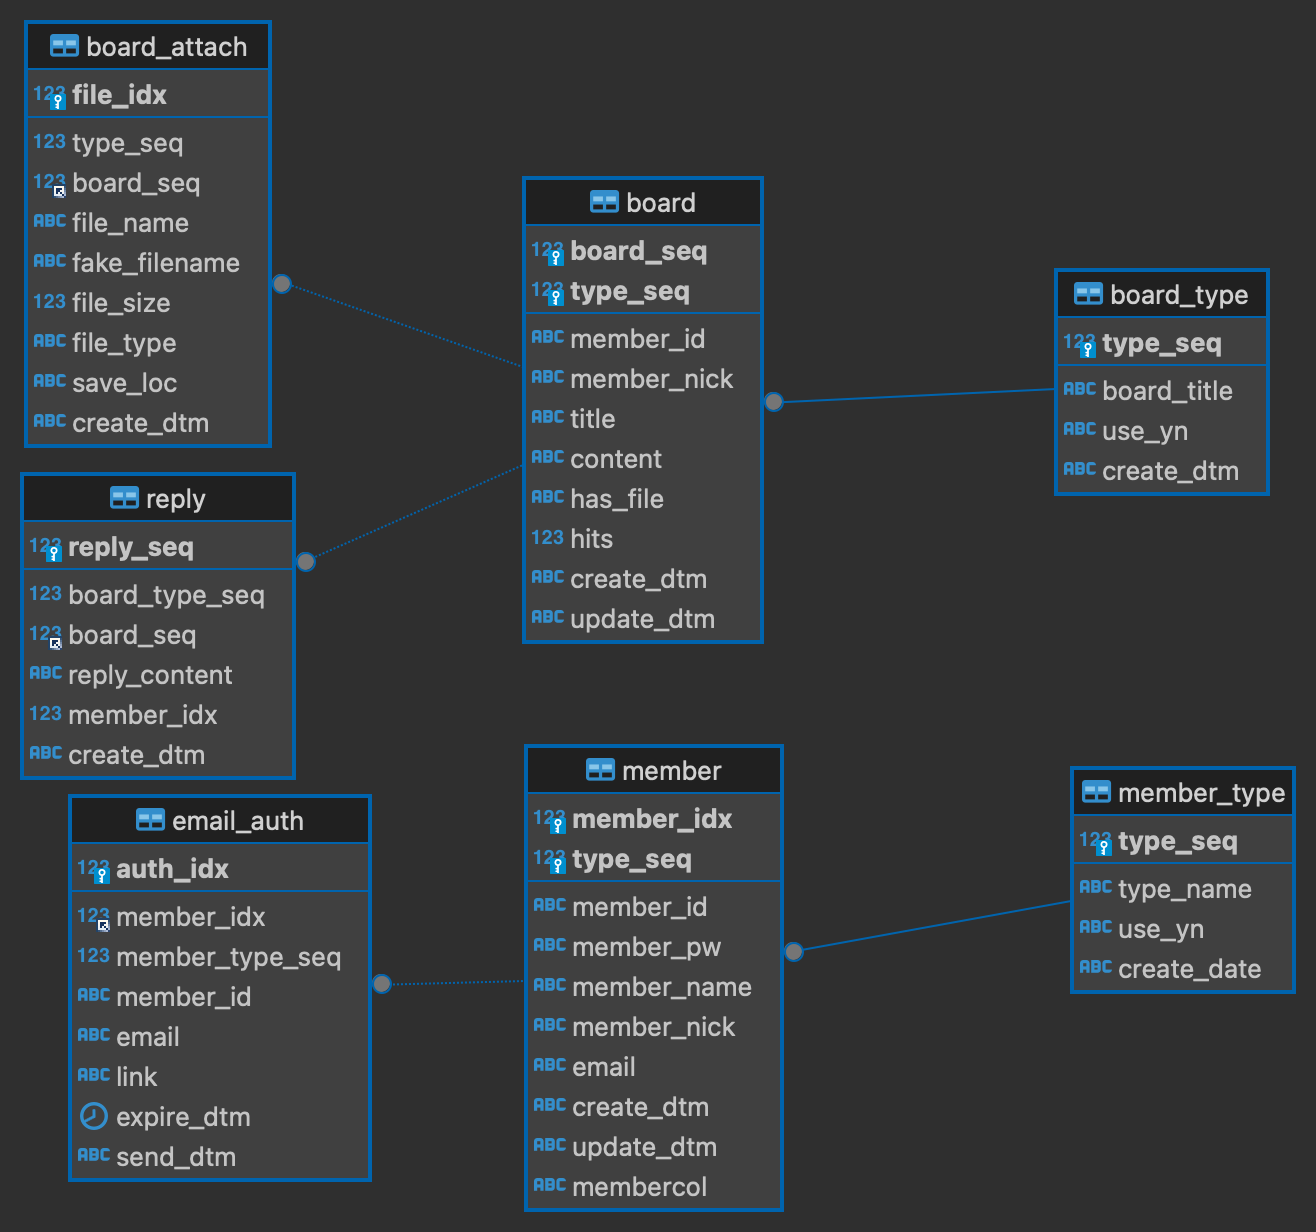
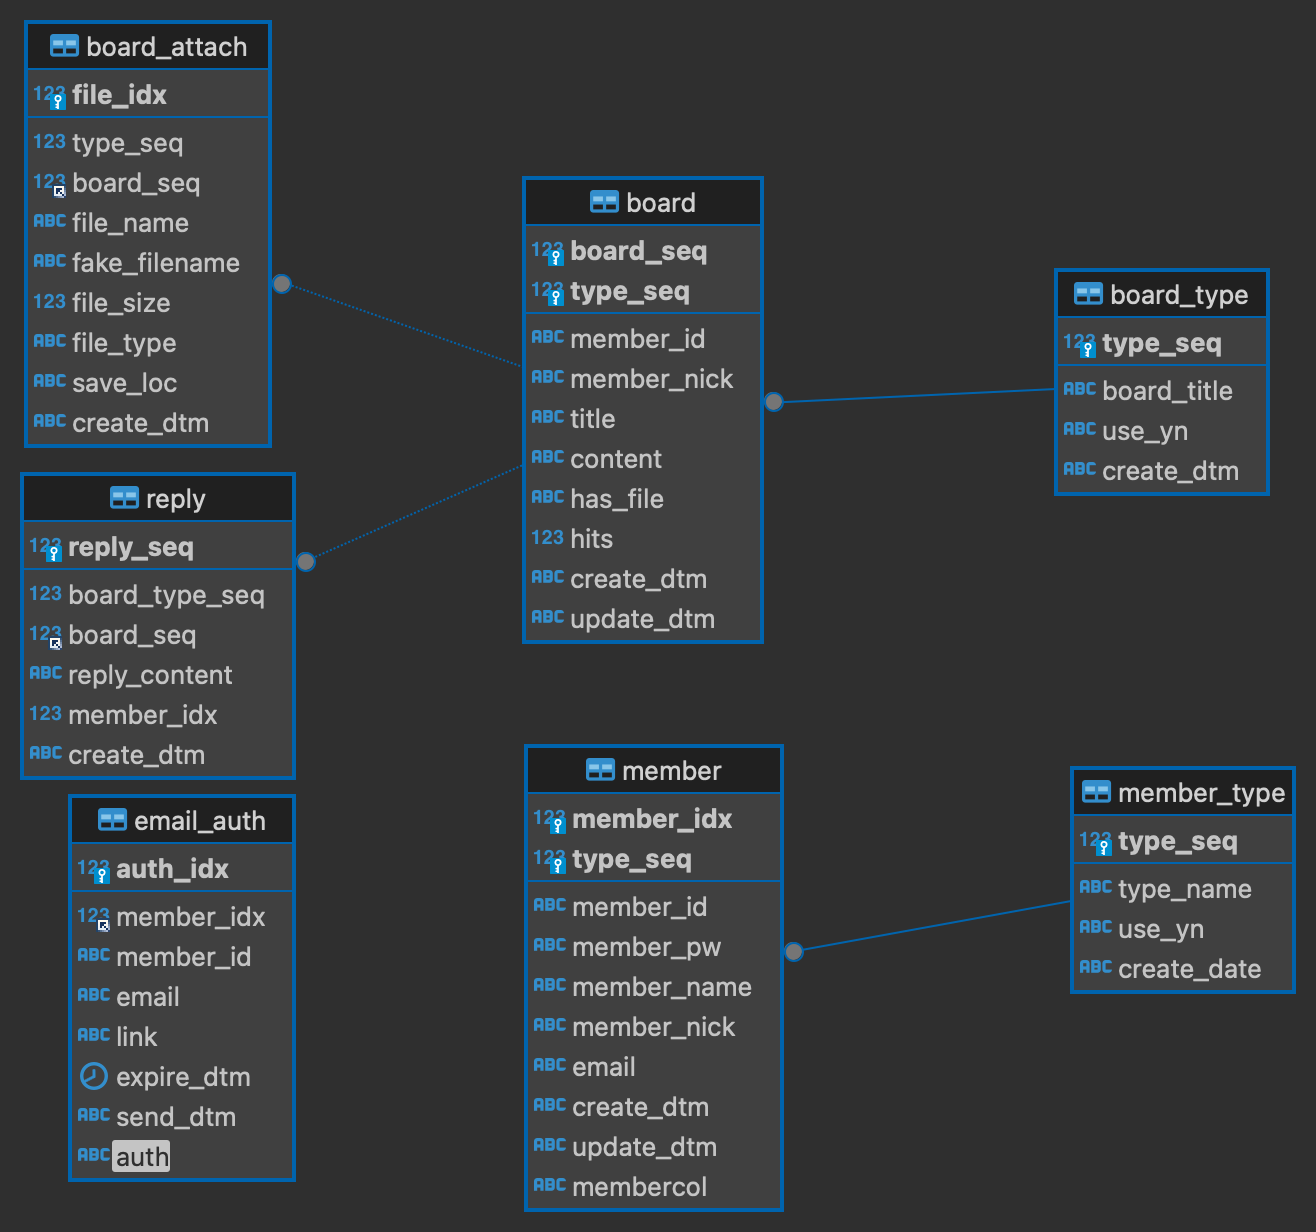
ERD이미지 수정, EmailAut테이블 수정 반영.

diff --git a/src/main/java/com/lhs/service/impl/MemberServiceImpl.java b/src/main/java/com/lhs/service/impl/MemberServiceImpl.java
@@ -10,9 +10,12 @@ import javax.servlet.http.HttpSession;
 
 import org.springframework.beans.factory.annotation.Autowired;
 import org.springframework.stereotype.Service;
+import org.springframework.transaction.annotation.Transactional;
 
+import com.lhs.dao.EmailAuthDao;
 import com.lhs.dao.MemberDao;
 import com.lhs.dto.MemberDto;
+import com.lhs.entity.EmailAuth;
 import com.lhs.exception.PasswordMissMatchException;
 import com.lhs.exception.UserNotFoundException;
 import com.lhs.service.MemberService;
@@ -30,6 +33,9 @@ public class MemberServiceImpl implements MemberService {
 	
 	@Autowired
 	AES256Util encoder;
+	
+	@Autowired
+	EmailAuthDao eAuth;
 	
 	
 	
@@ -136,10 +142,19 @@ public class MemberServiceImpl implements MemberService {
 		return null;
 	}
 
+	@Transactional
 	@Override
 	public String getVNum(String email, HttpSession session) {
 		//이메일 인증 번호 나중에 메서드로 바꾸기 !!!!
 		String VNum =RandomNum.randum();
+		EmailAuth emailAuth = new EmailAuth();
+		emailAuth.setAuth("N");
+		emailAuth.setEmail(email);
+		emailAuth.setLink("Null");
+		emailAuth.setMemberId((String)session.getAttribute("memberId"));
+		emailAuth.setMemberIdx((Integer)session.getAttribute("memberIdx"));
+		
+
 		session.setAttribute("VNum", VNum);
 		
 		com.lhs.dto.EmailDto emailDto = new com.lhs.dto.EmailDto();
@@ -147,8 +162,14 @@ public class MemberServiceImpl implements MemberService {
 		emailDto.setReceiver(email);
 		emailDto.setSubject("이메일 인증번호");
 		emailDto.setText("인증번호 입니다."+ VNum);
+		eAuth.insertEAuth(emailAuth);
+
 		try {
 			emailUtil.sendHtmlMail(emailDto);
+			session.setAttribute("authIdx", emailAuth.getAuthIdx());
+			System.out.println("authIdx :");
+			System.out.println("authIdx :");
+			System.out.println(session.getAttribute("authIdx"));
 		}catch(Exception e) {
 			e.printStackTrace();
 		}
@@ -161,12 +182,13 @@ public class MemberServiceImpl implements MemberService {
 		System.out.println("Service checkVNum()");
 		System.out.println("params.get(\"VNum\")      "+params.get("VNum"));
 		System.out.println("session.getAttribute(\"VNum\")      "+session.getAttribute("VNum"));
-		
+		params.put("authIdx", session.getAttribute("authIdx") + "");
 		
 		boolean result = params.get("VNum").equals( session.getAttribute("VNum"));
 		if(result) {
 			System.out.println("입력값 변경 !!");
 			session.setAttribute("typeSeq", "5");
+			eAuth.updateElAuth(params);
 		 mDao.updatetype((String)session.getAttribute("memberId"));
 			System.out.println("입력값 변경 !!");
 

diff --git a/src/main/java/com/lhs/rest/controller/MemberRestController.java b/src/main/java/com/lhs/rest/controller/MemberRestController.java
@@ -54,21 +54,21 @@ public class MemberRestController {
 	@PostMapping("/member")
 	@ResponseBody
 	public ResponseEntity<?> join(
-//			String memberId, 
-//			String memberPw,
-//			String againPw,
-//			String memberName,
-//			String memberNick,
-//			String email
-			MemberDto memberDto
+			String memberId, 
+			String memberPw,
+			String againPw,
+			String memberName,
+			String memberNick,
+			String email
+			//MemberDto memberDto
 			){
-//		MemberDto memberDto =  new MemberDto();
-//		memberDto.setMemberId(memberId);
-//		memberDto.setMemberPw(memberPw);
-//		memberDto.setAgainPw(againPw);
-//		memberDto.setMemberName(memberName);
-//		memberDto.setMemberNick(memberNick);
-//		memberDto.setEmail(email);
+		MemberDto memberDto =  new MemberDto();
+		memberDto.setMemberId(memberId);
+		memberDto.setMemberPw(memberPw);
+		memberDto.setAgainPw(againPw);
+		memberDto.setMemberName(memberName);
+		memberDto.setMemberNick(memberNick);
+		memberDto.setEmail(email);
 		
 		System.out.println("\"/member/login.do\")의 시작.");
 		System.out.println("MemberController의 join메서드에 전달받은 파라미터 출력");
@@ -92,20 +92,21 @@ public class MemberRestController {
 	
 	
 	
-	// 입력 받은 이메일 검증하고 검증결과에 따라 Member Type을 바꾸는 메서드 
+	// 입력 받은 이메일 검증하고 검증결과에 따라 Member Type을 바꾸는 메서드
+	// 
 		@PostMapping("/member/VNum")
 		@ResponseBody
 		public ResponseEntity<?> checkVNum(
-				HashMap params,
-//				String memberId,
-//				String email,
-//				String VNum,
+				//HashMap params,
+				String memberId,
+				String email,
+				String VNum,
 				HttpSession session){
 			
-//			HashMap params = new HashMap<String,String>();
-//			params.put("memberId", memberId);
-//			params.put("eamil", email);
-//			params.put("VNum", VNum);
+			HashMap<String,String> params = new HashMap<String,String>();
+			params.put("memberId", memberId);
+			params.put("eamil", email);
+			params.put("VNum", VNum);
 			
 			
 			System.out.println(params);

diff --git a/src/main/java/com/lhs/entity/EmailAuth.java b/src/main/java/com/lhs/entity/EmailAuth.java
@@ -18,12 +18,16 @@ import lombok.ToString;
 @AllArgsConstructor
 @Alias("EmailAuth")
 public class EmailAuth {
-	private int idx;
+	private int authIdx;
 	private int memberIdx;
-	private String memberTypeSeq;
 	private String memberId;
 	private String email;
 	private String link;
+	private String expireDtm;
 	private String sendDtm;
-
+	private String auth;
 }
+
+
+
+ 

diff --git a/src/main/java/com/lhs/dao/EmailAuthDao.java b/src/main/java/com/lhs/dao/EmailAuthDao.java
@@ -1,14 +1,13 @@
 package com.lhs.dao;
 
-import org.springframework.stereotype.Repository;
+import java.util.HashMap;
 
 import com.lhs.entity.EmailAuth;
 
-
-
-@Repository
 public interface EmailAuthDao {
 	
-	public int addEmailAuth(EmailAuth dto);
+	public int insertEAuth(EmailAuth dto);
+	public int updateElAuth(HashMap<String, String> params); 
+
 
 }
